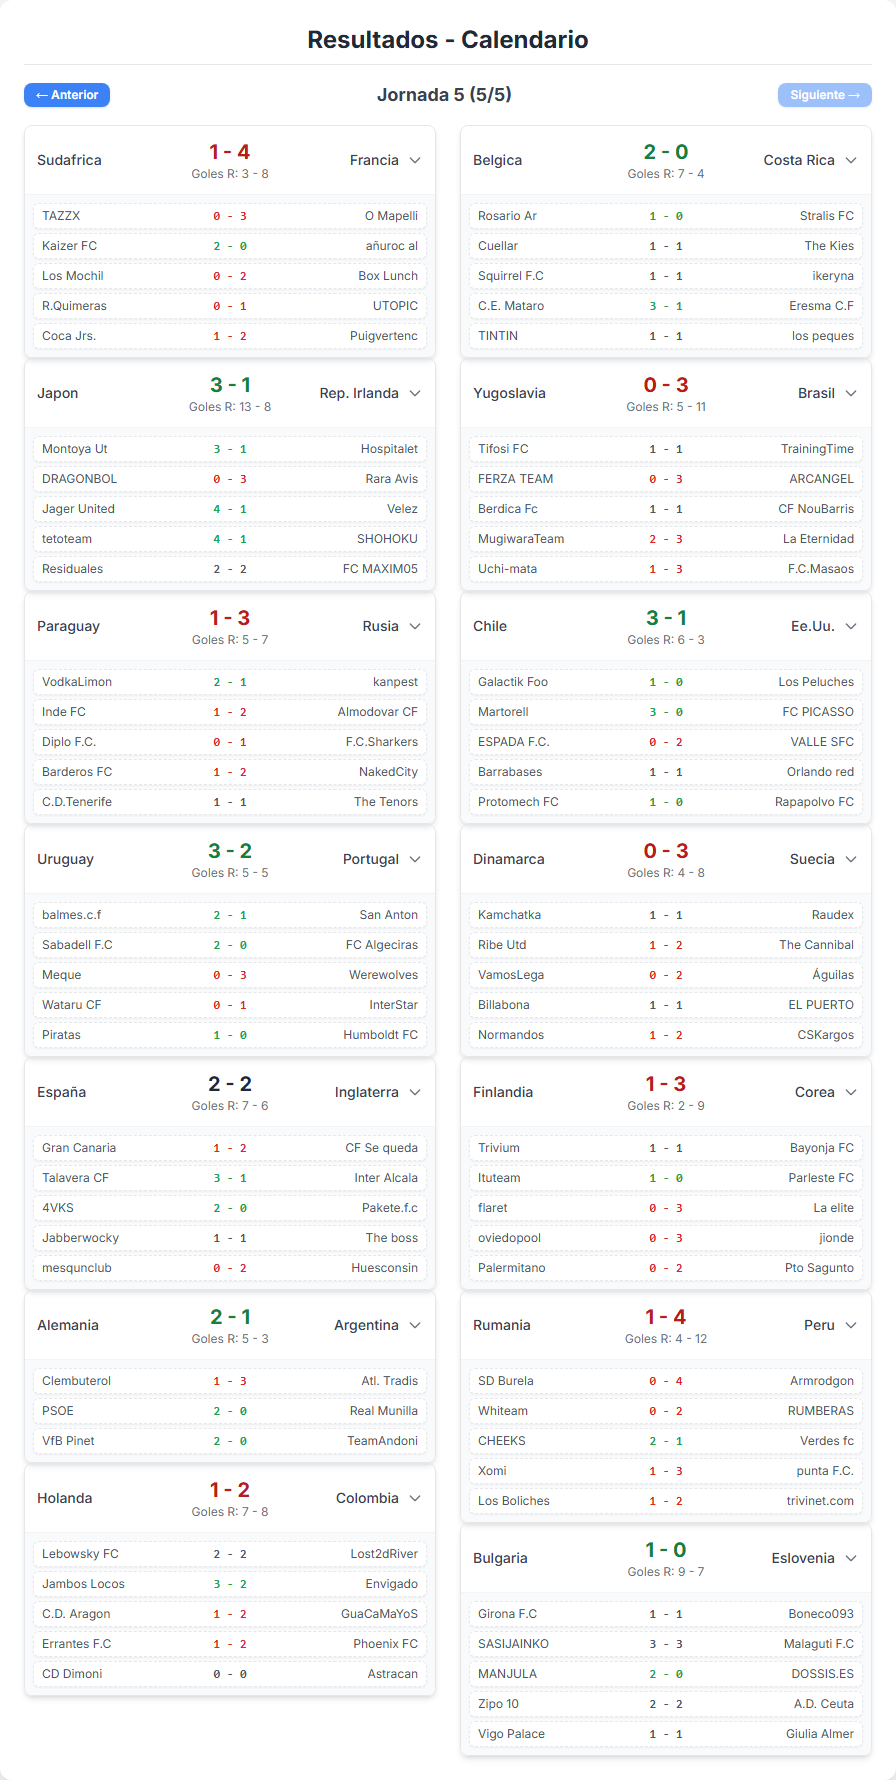
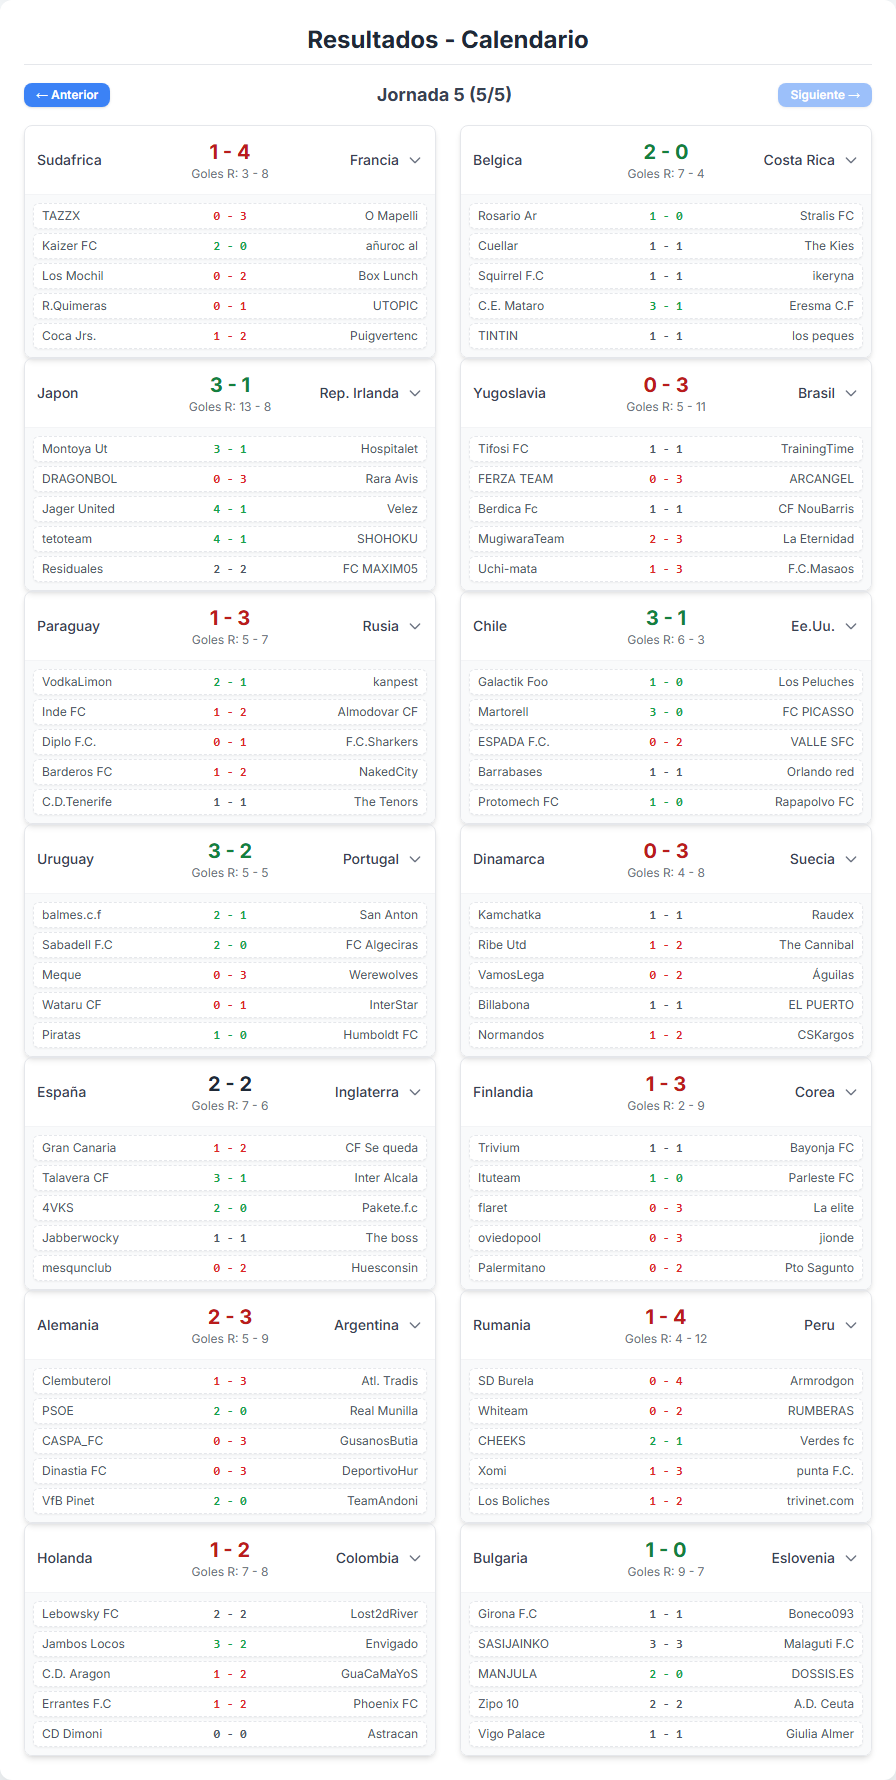
Actualización automática: 2025-11-22 08:53:22

diff --git a/index.html b/index.html
@@ -3691,19 +3691,19 @@
         "is_scheduled": false
     },
     {
-        "local": "nan",
+        "local": "CASPA_FC",
         "gl": 0,
-        "gv": 0,
-        "visit": "nan",
+        "gv": 3,
+        "visit": "GusanosButia",
         "jornada": 5,
         "group": null,
         "is_scheduled": false
     },
     {
-        "local": "nan",
+        "local": "Dinastia FC",
         "gl": 0,
-        "gv": 0,
-        "visit": "nan",
+        "gv": 3,
+        "visit": "DeportivoHur",
         "jornada": 5,
         "group": null,
         "is_scheduled": false
